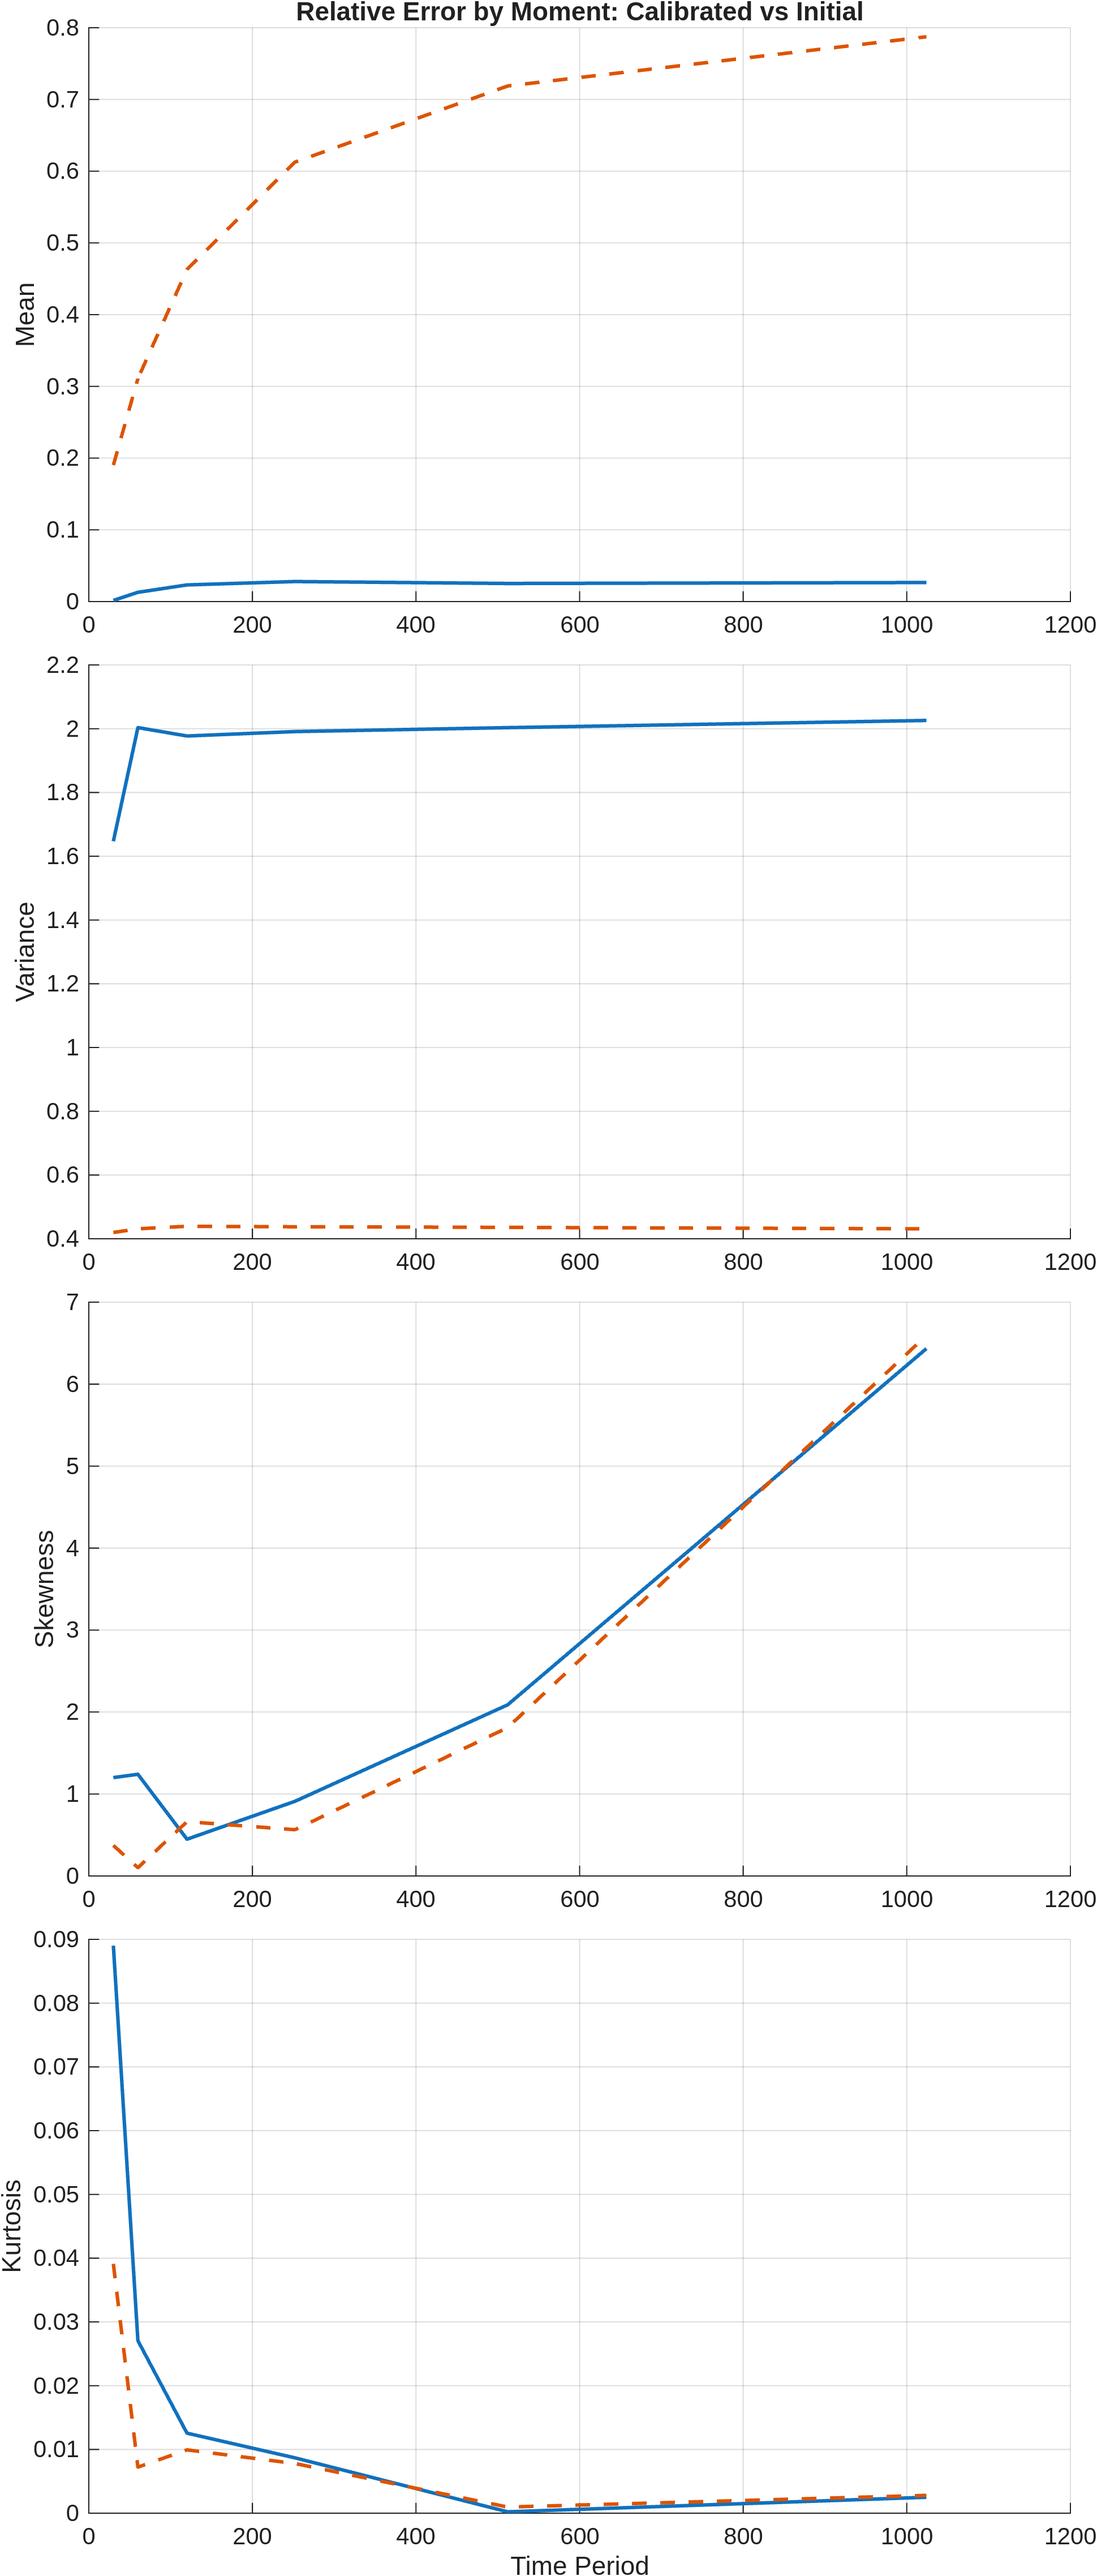
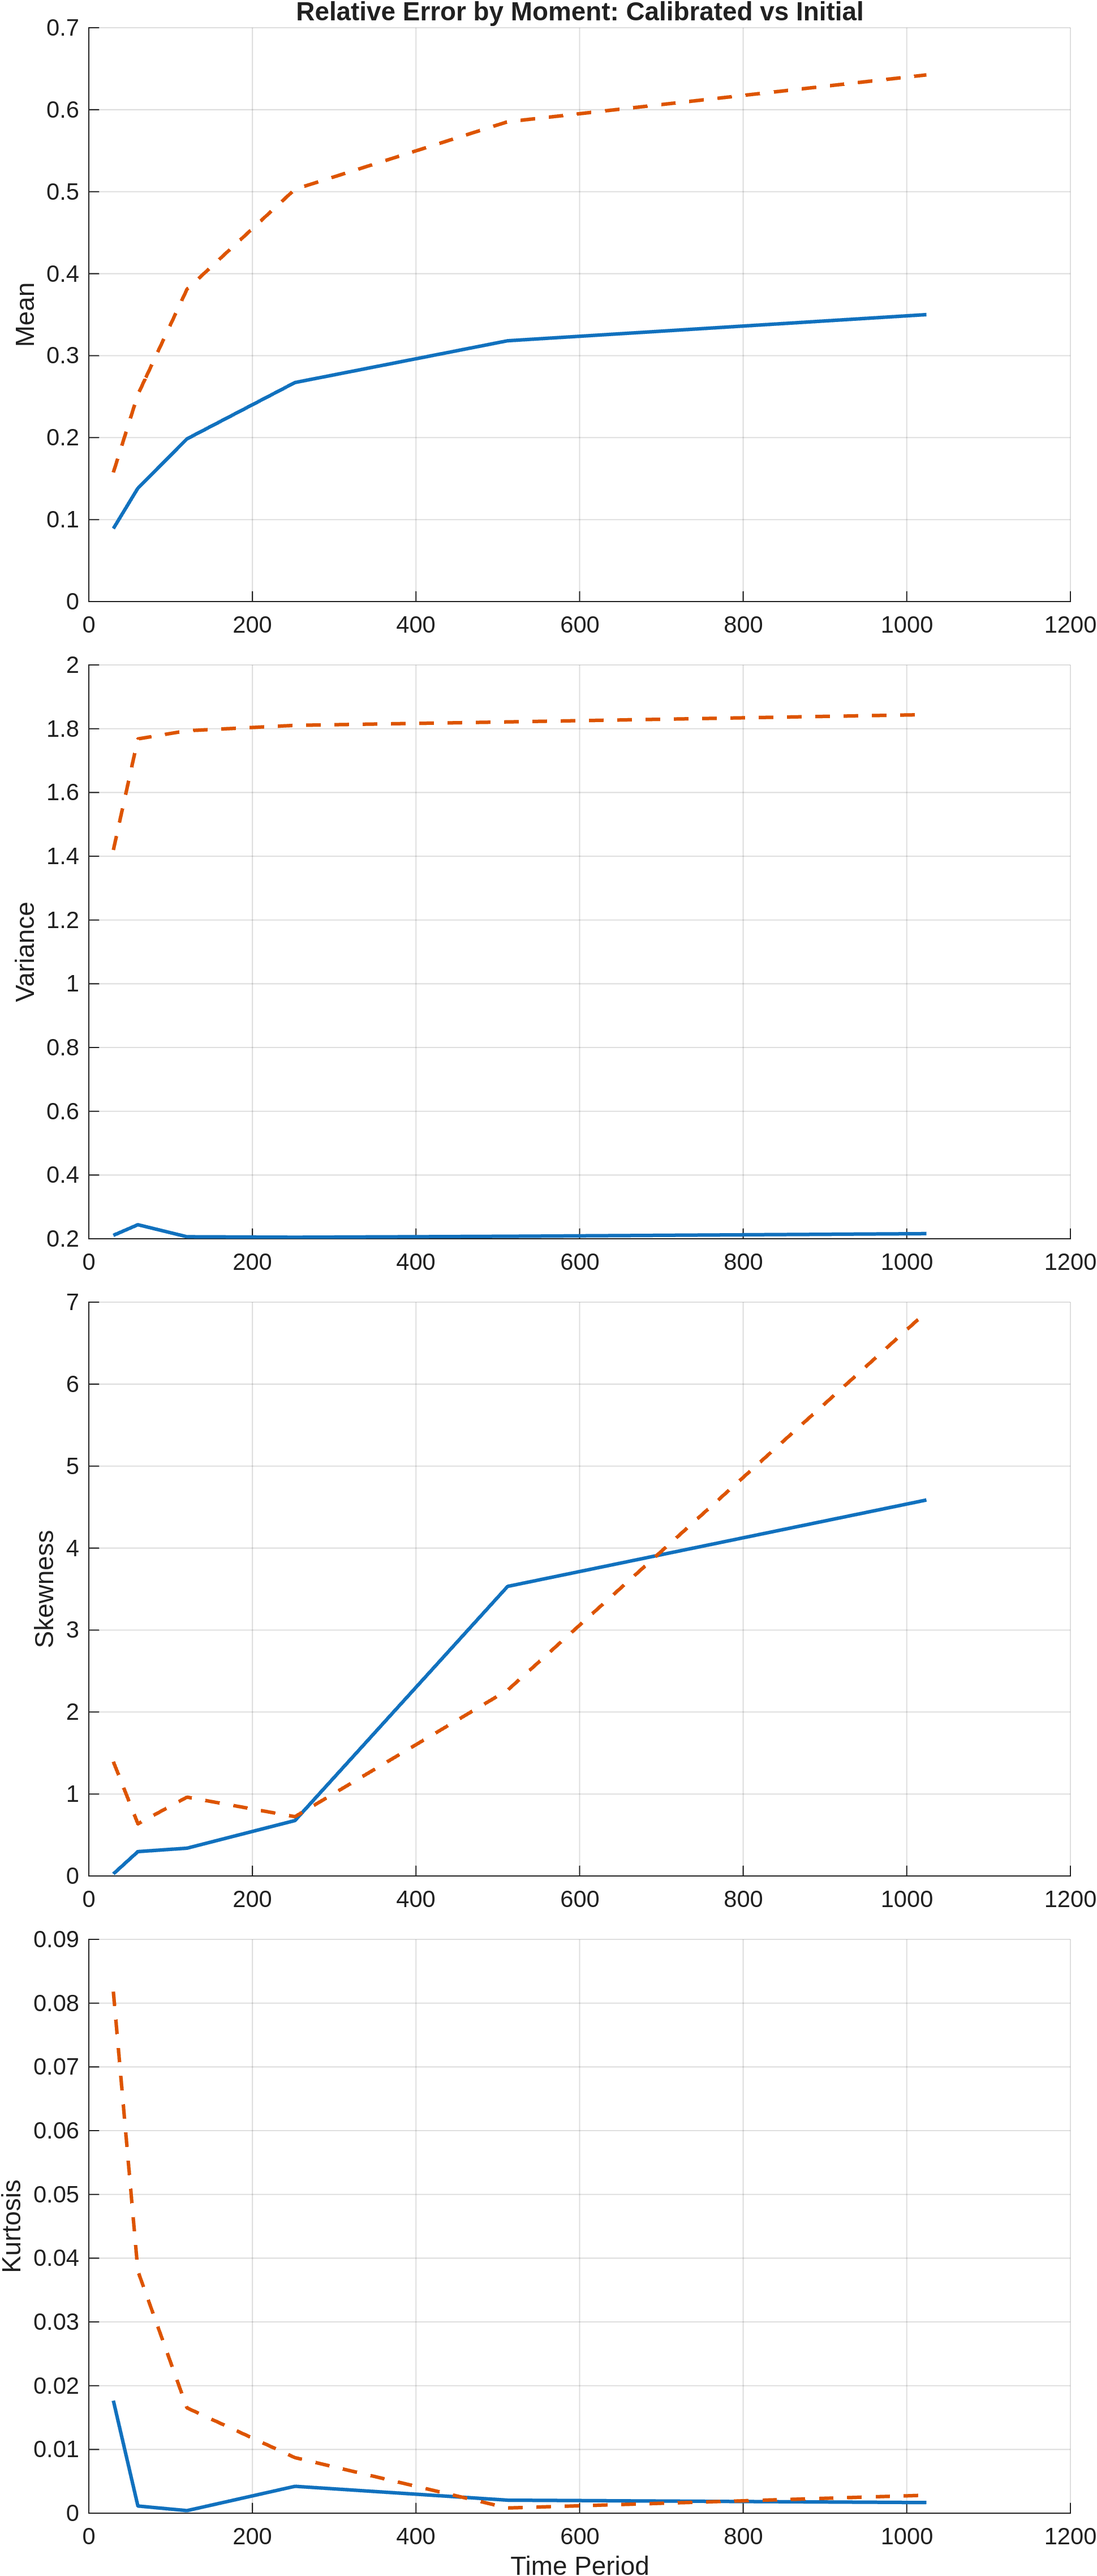
update

diff --git a/mc.m b/mc.m
@@ -8,7 +8,7 @@ jsonStr = fileread(json_path);
 data = jsondecode(jsonStr);
 
 plotprefix = "Figs/lambda_1";
-calib_p = [ data.alpha, data.beta, data.omega, data.gamma, data.lambda
+calib_p = [ data.alpha, data.beta, data.omega_true, data.gamma, data.lambda
 ];
 true_p = [data.alpha_true, data.beta_true, data.omega_true, data.gamma_true, data.lambda_true
 ];
@@ -193,11 +193,13 @@ function err =  rel_err(x_p, x)
 end
 
 function X = four_moments(N, alpha, beta, omega, gamma, lambda)
-    Rt = mcDuan(N, alpha, beta, omega, gamma, lambda);
+    [Rt, ht] = mcDuan(N, alpha, beta, omega, gamma, lambda);
     m = mean(Rt, "all");
     v = var(Rt, 0, "all");
     s = skewness(Rt, 0, "all");
     k = kurtosis(Rt, 0, "all");
+
+    omega_unc = mean(ht, "all")*(1-beta-alpha)
 
     X = [m, v, s, k];
 end
@@ -220,7 +222,7 @@ end
 Rt = Rt(2:end, :);
 end
 
-function Rt = mcDuan(N, alpha, beta, omega, gamma, lambda)
+function [Rt, ht] = mcDuan(N, alpha, beta, omega, gamma, lambda)
 M = 1000; 
 dt = 1/N;
 Rt = zeros(N+1, M);

diff --git a/cal.py b/cal.py
@@ -53,12 +53,12 @@ else:
     bounds = [
         (1e-6, 1.50e-6),  # alpha
         (0.2, 0.9),  # beta
-        (1e-7, 2e-7),  # omega
+        (1e-7, 1e-6),  # omega
         (0, 7),  # gamma
         (0.1, 1),  # lambda
         (1e-2, 3e-1),  # sigma epsilon
     ]
-scale = 1
+scale = 24
 scale2 = 1
 strategy = "best1bin"
 
@@ -518,14 +518,14 @@ def calibration_HN_GARCH(
     #     constraints=(nlc,),
     # )
     #
-    popsize_multiplier = 25
+    popsize_multiplier = 15
     kwargs = dict(
         args=(),
         strategy=strategy,
         maxiter=200,
         popsize=popsize_multiplier,
-        tol=1e-7,
-        mutation=(0.5, 1.5),
+        tol=1e-2,
+        mutation=(0.5, 1),
         recombination=0.8,
         seed=seed,
         callback=None,
